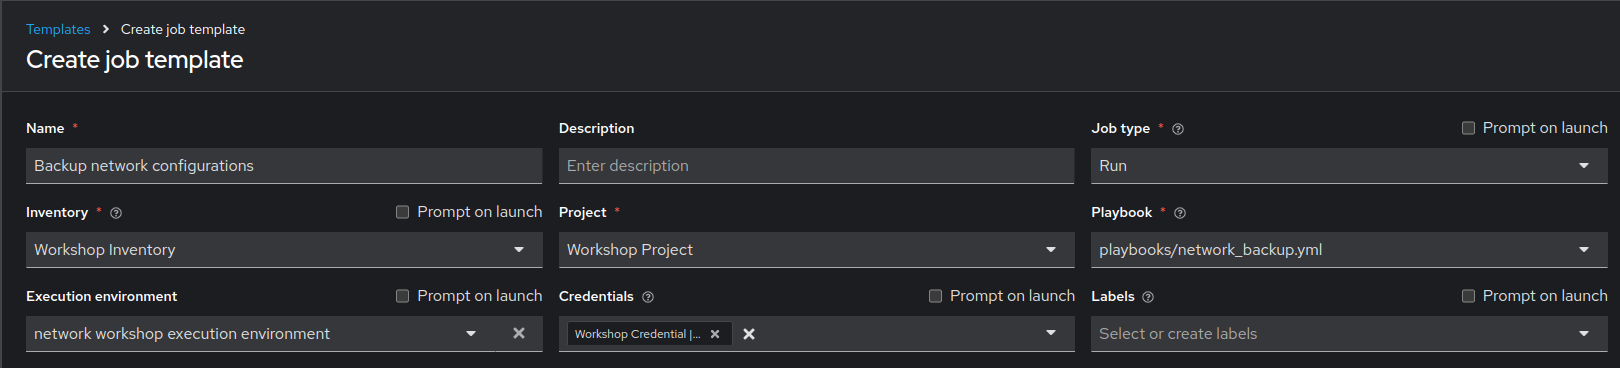
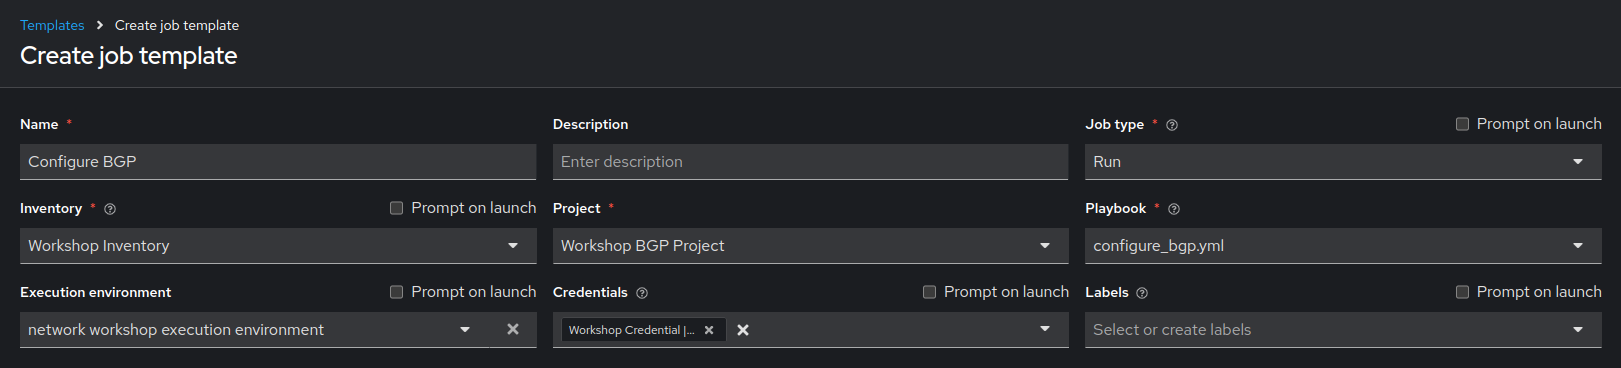
updates to automation-execution section

diff --git a/exercises/ansible_network_lightspeed_eda/6-automation-execution/README.md b/exercises/ansible_network_lightspeed_eda/6-automation-execution/README.md
@@ -78,7 +78,7 @@ Credentials are utilized by Automation controller for authentication when launch
 * The **PASSWORD** is blank.
 * The **SSH PRIVATE KEY** is already configured, and is **ENCRYPTED**.
 
-### Step 3: Examine the Automation Controller Workshop Project
+### Step 3: Creating a new Automation Controller Project
 
 A project is how Ansible Playbooks are imported into Automation controller. You can manage playbooks and playbook directories by either placing them manually under the Project Base Path on your Automation controller server, or by placing your playbooks into a source code management (SCM) system supported by Automation controller, including Git and Subversion.
 
@@ -86,17 +86,30 @@ A project is how Ansible Playbooks are imported into Automation controller. You 
 >
 > For more information on Projects in Automation controller, please [refer to the documentation](https://docs.redhat.com/en/documentation/red_hat_ansible_automation_platform/2.5/html/getting_started_with_ansible_automation_platform/assembly-gs-auto-op#proc-gs-auto-op-projects)
 
-1. Click on the **Projects** button under the **Automation Execution** drop-down menu in the left sidebar.
+**1.** Click on the **Projects** button under the **Automation Execution** drop-down menu in the left sidebar.
 
 ![projects](images/projects.png)
 
-2. Under **Projects** there will be a `Workshop Project`.
+**2.** Click on the **Create project** button.
 
-![workshop project](images/workshop_project.png)
+![create project](images/create_project.png)
 
-Note that Source Control URL is set to [https://github.com/network-automation/toolkit](https://github.com/network-automation/toolkit)
+**3.** Fill out the project parameters as follows and click on **Create Project**.
 
-### Step 4: Examine the Network Time Job Template
+  | Parameter | Value |
+  |---|---|
+  | Name  | Workshop BGP Project  |
+  | Organization |  Red Hat Network Organization |
+  |  Source control type |  Git |
+  |  Source control URL |  https://github.com/your-github-username/aap_workshop |
+
+  ![new project](images/new_project.png)
+
+**4.** Once done, you should have a new project named `Workshop BGP Project` added under **Projects**.
+
+![workshop bgp project](images/workshop_bgp_project.png)
+
+### Step 4: Creating an Automation Controller Job Template
 
 A **Job Template** is a definition and set of parameters for running a playbook in AAP. A **Job Template** requires:
 
@@ -104,10 +117,57 @@ A **Job Template** is a definition and set of parameters for running a playbook 
 * A **Credential** to login to devices.
 * A **Project** which contains Ansible Playbooks.
 
-1. Click on the **Templates** button under the **Automation Execution** drop-down menu in the left sidebar.
+**1.** Click on the **Templates** button under the **Automation Execution** drop-down menu in the left sidebar.
 
 ![templates](images/templates.png)
 
+**2.** Click on **Create Template** button and choose **Create job template**.
+
+![new job template](images/new_job_template.png)
+
+**3.** Fill out the **Job Template** parameters as follows and click on **Create job template** button.
+
+  | Parameter | Value |
+  |---|---|
+  | Name  | Configure BGP  |
+  |  Job Type |  Run |
+  |  Inventory |  Workshop Inventory |
+  |  Project |  Workshop BGP Project |
+  |  Execution Environment | network workshop execution environment |
+  |  Playbook | configure_bgp.yml |
+  |  Credential |  Workshop Credential |
+
+![create job template](images/create_job_template.png)
+
+**4.** At this point, you should have a new `Configure BGP` job template created and ready to launch.
+
+### Step 5: Launching the new Job Template
+
+**1.** Navigate back to the `Templates` window, where all Job Templates are listed.
+
+**2.** Launch the `Configure BGP` Job Template by clicking the Rocket button.
+
+![launch](images/launch_job_template.png)
+
+**3.** After executing the Job Template it will automatically open the [Standard Out pane](https://docs.ansible.com/automation-controller/latest/html/userguide/jobs.html#standard-out)
+
+![job standard out](images/job_standard_out.png)
+
+   * Examine the **Standard Out pane**
+
+      The Standard Out pane will display the output from the Ansible Playbook.  Every task output will match exactly what would be seen on the command line.
+
+   * Click on a task in the **Standard Out pane** to open up structured output from that particular task.
+
+      > Click on any line where there is a **changed** or **ok**
+
+      ![task details window](images/job_details.png)
+
+   * Click on the **Data**  tab to open the **Data pane** which has more information on the task run
+
+      ![data pane](images/data_pane.png)
+
+**4.** Since we previously configured BGP on both the routers using the same playbook with ansible-navigator, this job template run is `idempotent` and results in no changes pushed, which is expected.
 
 ## Takeaways
 
@@ -115,18 +175,19 @@ A **Job Template** is a definition and set of parameters for running a playbook 
 * Although this workshop already setup the inventory, importing an existing Ansible Automation inventory is easy.  Check out [this blog post](https://www.ansible.com/blog/three-quick-ways-to-move-your-ansible-inventory-into-red-hat-ansible-tower) for more ways to easily get an existing inventory into Automation controller.
 * Automation controller can sync to existing SCM (source control management) including Github.
 * Automation controller can store and encrypt credentials including SSH private keys and plain-text passwords. Automation controller can also sync to existing credential storage systems such as CyberArk and Vault by HashiCorp.
-* Creating a Job Template for backing up network configurations.
-* Launching a Job Template from the Automation controller UI.
-* Verifying the backups are correctly stored.
+* Creating a new Project for our BGP task.
+* Creating a Job Template for configuring BGP on `rtr1` and `rtr2`.
+* Launching a Job Template from the Automation Execution UI.
 
 ## Complete
 
 You have completed lab exercise 5
 
-You have now examined all three components required to get started with Automation controller.  A credential, an inventory and a project.
+You have now explore all four components required to get started with Automation controller.  A credential, an inventory, a project
+and a job template.
 
 ---
-[Previous Exercise](../4-explore-aap-2.5/README.md) | [Next Exercise](../6-configure-routing/README.md)
+[Previous Exercise](../5-explore-aap-2.5/README.md)
 
 
 [Click here to return to the Ansible Network Automation Workshop](../README.md)
